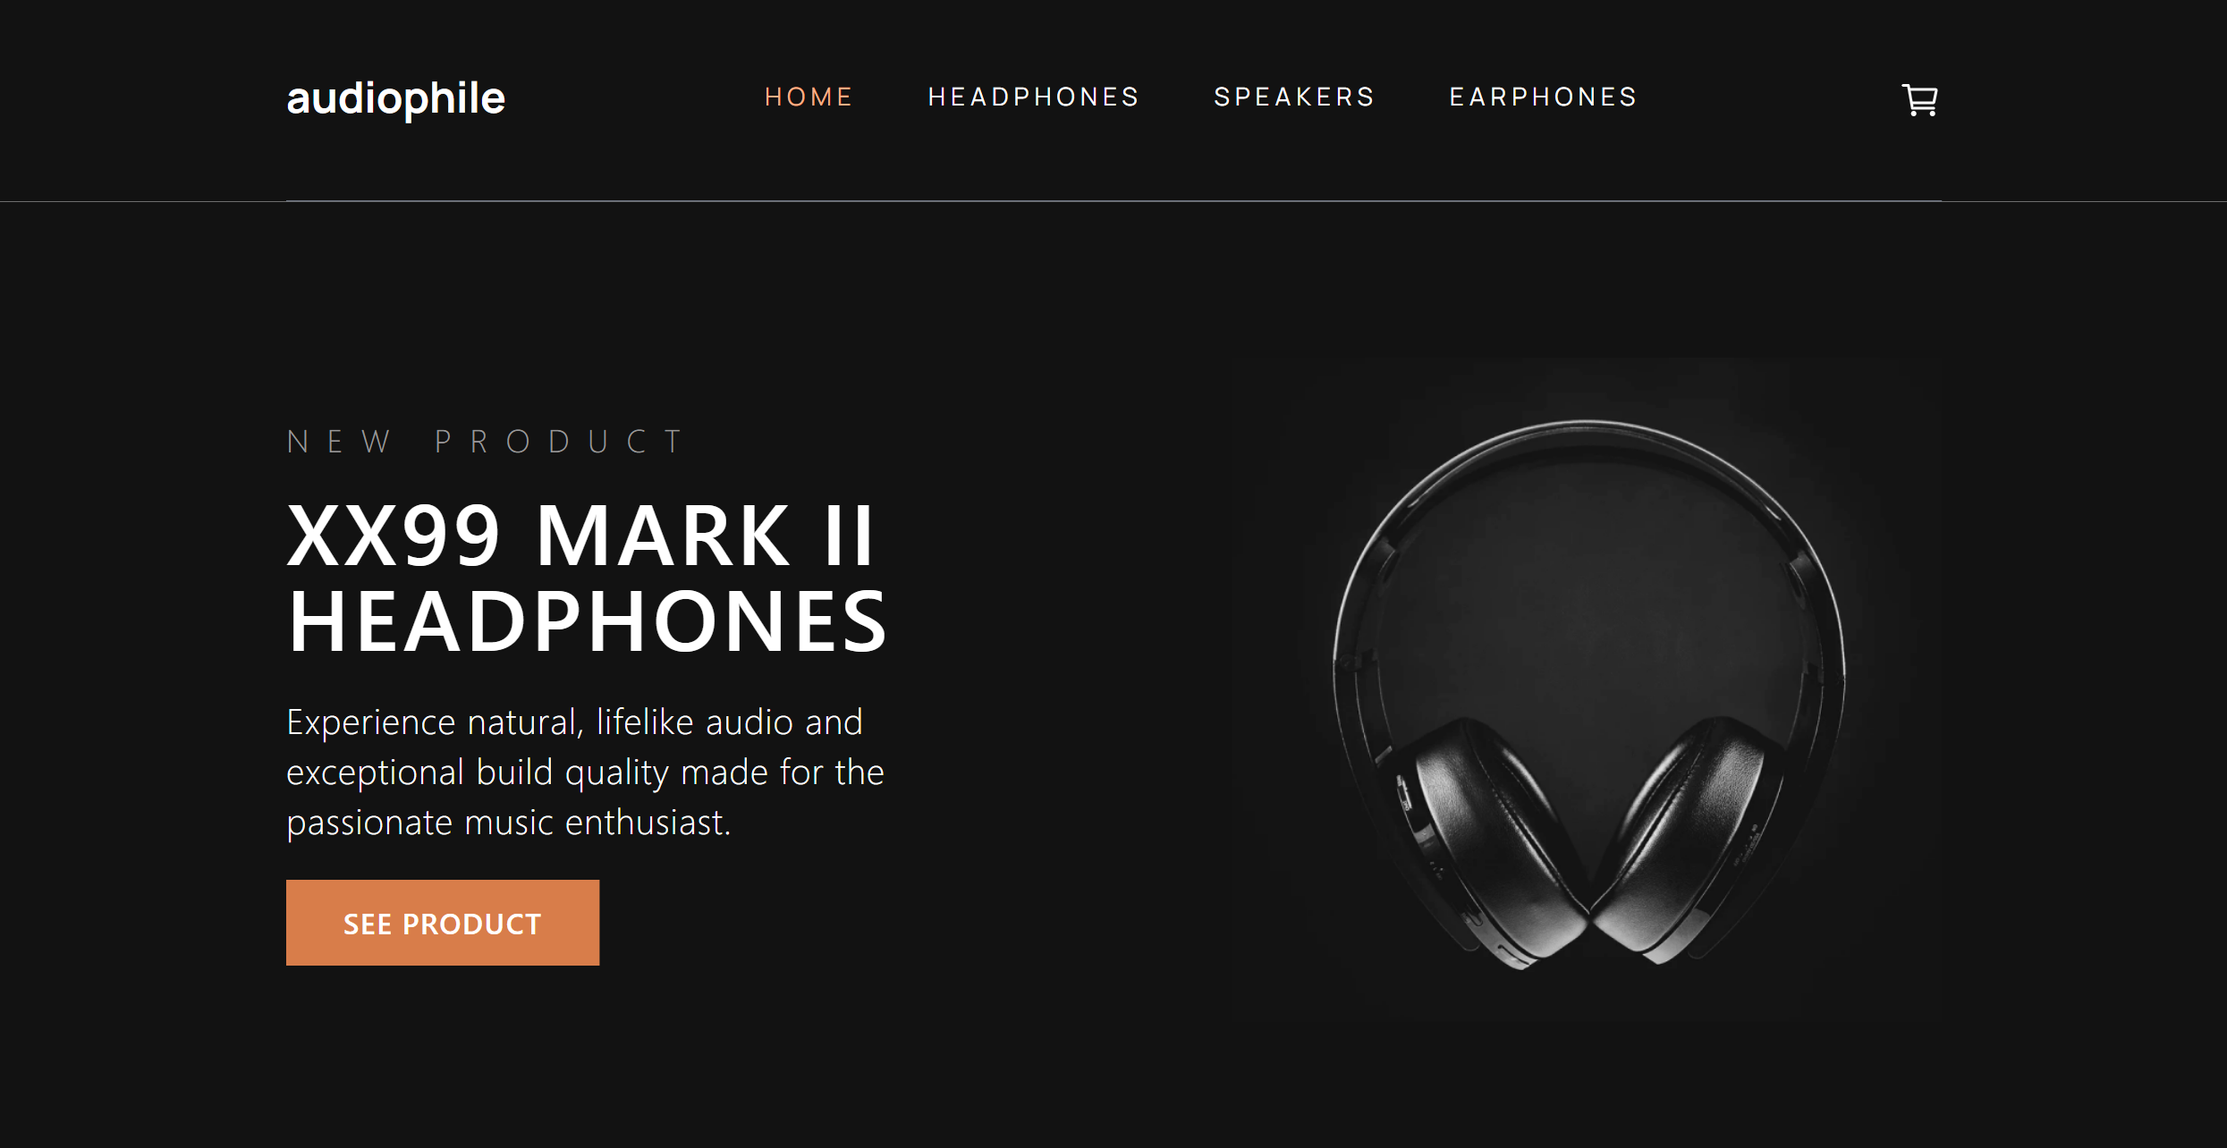
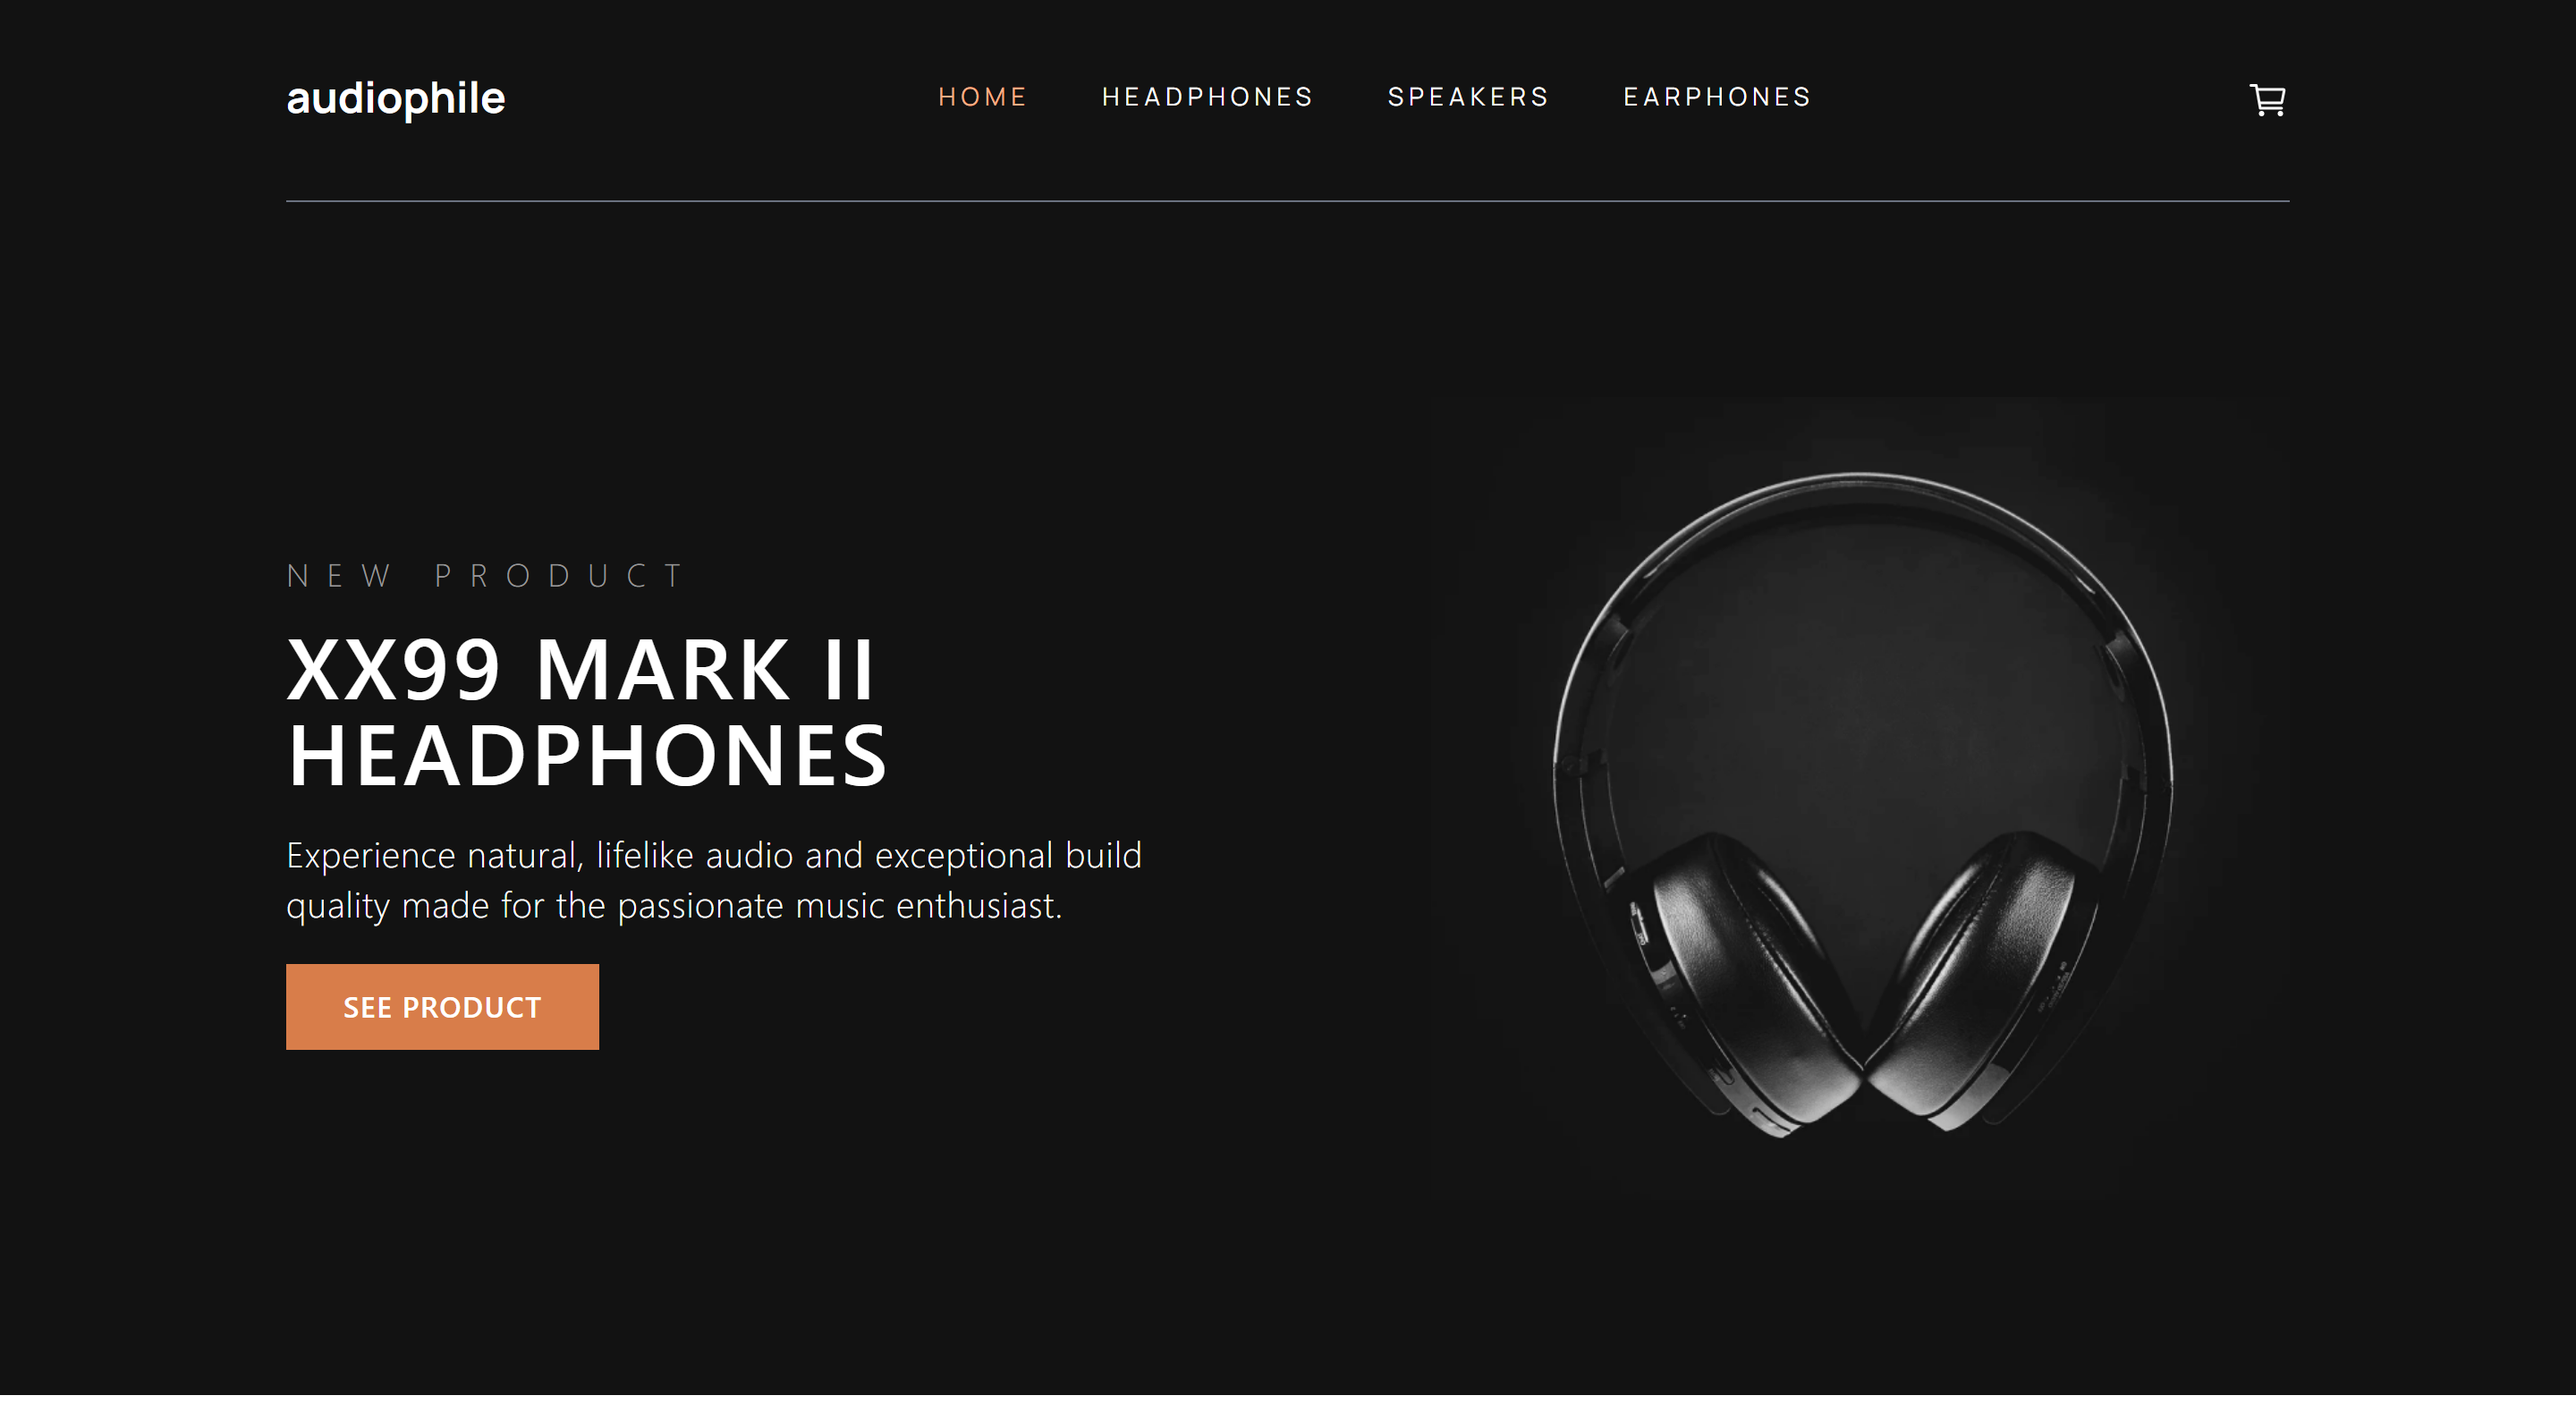
blog page fully made. Blog information now in json, backend not yet implemented
next: Admin dashboard

diff --git a/app/page.tsx b/app/page.tsx
@@ -5,30 +5,78 @@ import Skillsgrid from "@/components/Skillsgrid";
 import Projectsgrid from "@/components/Projectsgrid";
 import Experiencegrid from "@/components/Experiencegrid";
 import Footer from "@/components/Footer";
+import Blogcard from "@/components/Blogcard";
+import updatesData from "@/data/updates.json";
 
 export default function Home() {
   return (
     <div className="">
-      <main className="bg-black text-white min-h-screen">
+      <main className="bg-gray text-white min-h-screen">
           <Navbar/>
-            {/* Hero Section */}
-          <div className="px-4 lg:px-32 w-full">
 
+          <div className="px-4 lg:px-32 w-full">
+              {/* Hero Section */}
               <Herosection/>
 
+              <div className="flex flex-col">
+                  <div className="flex flex-col-reverse md:flex-row pb-28 border-b border-grey">
+                      {/* About Me */}
+                      <div className="w-full py-16 mx-auto flex flex-col justify-between">
+                          <div className="flex flex-col md:flex-row items-center mb-8">
+                              <h2 className="text-white text-4xl lg:text-48px md:text-6xl text-center">About Me</h2>
+                          </div>
+                          <h2 className="text-[18px] text-center md:text-start">
+                              I’m a soon-to-be graduate of African Leadership University, where I’ve honed my expertise
+                              in Software Engineering with a specialization in Full Stack Development as a Mastercard
+                              Scholar. My academic journey has equipped me with robust technical skills and a
+                              problem-solving mindset, but what excites me most is applying these tools to build
+                              solutions that drive tangible change. Beyond coding, I’m passionate about leveraging
+                              technology to bridge gaps—whether through scalable platforms, collaborative innovation, or
+                              empowering the next generation of African tech leaders. As I transition into the industry,
+                              I’m eager to contribute my skills to projects that merge creativity, functionality, and
+                              impact, while continuously growing as an engineer and thought leader.
+                          </h2>
+                          <div className="flex flex-col md:flex-row justify-between items-center mb-8">
+                              <button className="text-white text-24px border-b border-b-green pb-2 hover:text-green mt-4 md:mt-0">
+                                  <a
+                                      href="#contact">CONTACT
+                                      ME</a>
+                              </button>
+                          </div>
+
+                      </div>
+
+                      {/*Blog Overview*/}
+                      <div className="flex flex-col justify-center items-center pt-16 md:w-full">
+                          <div className="flex md:flex-rows gap-64 mb-8">
+                              <h2 className="text-white text-5xl lg:text-[48px] md:text-6xl text-start">News</h2>
+                              <button className="text-white text-18px
+                               border-b border-b-green pb-2 hover:text-green mt-4 md:mt-0"><a
+                                  href="/blog">View More
+                                </a>
+                              </button>
+                          </div>
+                          <div className="w-[50%]">
+                              {updatesData.slice(0, 1).map((update, index) => (
+                                  <Blogcard key={index} {...update} />
+                              ))}
+                          </div>
+                      </div>
+                  </div>
+              </div>
               {/* Skills Section */}
               <div className="py-16 mx-auto">
+                  <h2 className="text-white text-4xl lg:text-48px md:text-6xl text-center">Skills</h2>
                   <div className="flex flex-col md:flex-row justify-between items-center mb-8">
-                      <h2 className="text-white text-4xl lg:text-48px md:text-6xl text-center">Skills</h2>
+
                   </div>
                   <Skillsgrid/>
               </div>
 
-
               {/* Projects section   */}
               <div className="py-16 mx-auto">
+                  <h2 className="text-white text-4xl lg:text-48px md:text-6xl text-center">Projects</h2>
                   <div className="flex flex-col md:flex-row justify-between items-center mb-8">
-                      <h2 className="text-white text-4xl lg:text-48px md:text-6xl text-center">Projects</h2>
                       <button className="text-white border-b border-b-green pb-2 hover:text-green mt-4 md:mt-0"><a
                           href="#contact">CONTACT
                           ME</a>
@@ -37,11 +85,10 @@ export default function Home() {
                   <Projectsgrid/>
               </div>
 
-
               {/* Experience */}
               <div className="py-16 pb-24 mx-auto border-t border-grey">
+                  <h2 className="text-white text-4xl lg:text-48px md:text-6xl text-center">More</h2>
                   <div className="flex flex-col md:flex-row justify-between items-center mb-8">
-                      <h2 className="text-white text-4xl lg:text-88px md:text-6xl">More</h2>
                   </div>
                   <div className="flex justify-center mb-8">
                       <Experiencegrid/>

diff --git a/components/Blogcard.tsx b/components/Blogcard.tsx
@@ -7,28 +7,41 @@ import Link from 'next/link';
 
 
 type Blog = {
+    image: string;
     title?: string;
-    description1?: string;
+    caption?: string;
     likes?: number;
+    link?: string;
+
 }
 
 
-const Blogcard:React.FC<Blog> = ({ title, description1 , likes}) => {
+const Blogcard:React.FC<Blog> = ({image, title, caption , likes, link}) => {
     return (
-        <div className="w-fit flex-col space-y-6 container items-center border-b rounded-xl p-2">
-            <Image src={""} alt={"Erica"} width={250} height={200} className="bg-grey"/>
-            <h2 className="text-2xl">{title || "Title"}</h2>
-            <p className="text-xl">{description1 || "Lorem Ipsum"}</p>
+        <div className="w-fit flex-col space-y-6 container items-center border rounded-xl">
+            <Image src={image} alt={"Erica"} width="0"
+                   height="0"
+                   sizes="100vw" className="bg-grey w-full h-96 object-cover mb-4 rounded"/>
+            <div className="p-5">
+                <div>
+                    <h2 className="text-2xl pb-4">{title || "Title"}</h2>
+                    <p className="text-xl">{caption || "Lorem Ipsum"}</p>
+                </div>
 
-            <div className="flex justify-end gap-x-2 text-2xl items-center">
-                <GoHeart className="cursor-pointer"/> <p className="text-lg">{likes || 2 }</p>
-                <GoComment className="cursor-pointer"/>
-                <IoIosShareAlt className="cursor-pointer"/>
+                <div className="flex justify-end gap-x-2 text-2xl items-center py-8">
+                <GoHeart className="cursor-pointer"/> <p className="text-lg">{likes || 2}</p>
+                    <GoComment className="cursor-pointer"/>
+                    <IoIosShareAlt className="cursor-pointer"/>
+                </div>
+
+                <div className="flex justify-end">
+                    <Link href={link || "/blog"} target="_blank"
+                         >
+                        <button className="p-3 border bg-black text-white cursor-pointer rounded-2xl">View More</button>
+                    </Link>
+                </div>
             </div>
 
-            <div className="flex justify-end">
-                <Link href={"details"}></Link><button className="p-3 border bg-black text-white cursor-pointer rounded-2xl">View More</button>
-            </div>
         </div>
     )
 }

diff --git a/components/Projectcard.tsx b/components/Projectcard.tsx
@@ -11,22 +11,21 @@ type Project = {
 
 const ProjectCard: React.FC<Project> = ({ title, image, languages, live, code }) => {
     return (
-        <div className="relative group pt-2 pb-8">
+        <div className="relative group pt-2 pb-10">
             <div className="overflow-hidden">
-                <Image src={image} className="w-full transition-transform duration-300 " alt={title} width={100} height={100}/>
+                <Image src={image} className="w-full transition-transform duration-300 " alt={title} width={100} height={100} quality={100} unoptimized= {true}/>
                 <div
-                    className="absolute -top-0 inset-0 flex flex-col items-center justify-center bg-black bg-opacity-70 opacity-0 group-hover:opacity-100 transition-opacity duration-300">
+                    className="absolute -top-0 inset-0 flex flex-col items-center justify-center bg-black bg-opacity-70 opacity-0 group-hover:opacity-80 transition-opacity duration-300">
                     <a href={live} target="_blank" rel="noopener noreferrer"
-                       className="text-white pb-3 border-b-2 border-green hover:text-green">VIEW PROJECT</a>
+                       className="text-white text-18px pb-3 border-b-2 border-green hover:text-green">VIEW PROJECT</a>
                     <a href={code} target="_blank" rel="noopener noreferrer"
-                       className="text-white pb-3 border-b-2 border-green hover:text-green">VIEW CODE</a>
+                       className="text-white text-18px pb-3 border-b-2 border-green hover:text-green">VIEW CODE</a>
                 </div>
             </div>
             <h2 className="text-white text-24px mt-3">{title}</h2>
             <p className="text-grey text-18px font-light">{languages.join(", ")}</p>
 
-
-            <div className="flex lg:hidden space-x-10 pt-4">
+            <div className="flex md:hidden space-x-10 pt-4">
                 <a href={live} target="_blank" rel="noopener noreferrer"
                    className="text-white pb-3 border-b-2 border-green hover:text-green">VIEW PROJECT</a>
                 <a href={code} target="_blank" rel="noopener noreferrer"

diff --git a/app/blog/page.tsx b/app/blog/page.tsx
@@ -1,25 +1,9 @@
 import React from 'react';
 import Navbar from "@/components/Navbar";
 import Blogcard from "@/components/Blogcard";
+import updatesData from "@/data/updates.json";
+import Link from "next/link";
 
-const blogData = [
-    {
-        title: "Blog",
-        description: "Lorem Ipsum",
-        likes: 1,
-    },
-    {
-        title: "Blog",
-        description: "Lorem Ipsum",
-        likes: 1,
-    }
-    ,
-    {
-        title: "Blog",
-        description: "Lorem Ipsum",
-        likes: 1,
-    }
-]
 
 function Page() {
     return (
@@ -28,14 +12,16 @@ function Page() {
             <Navbar/>
             <div>
                 <div className="bg-gray flex flex-col justify-center items-center text-white min-h-96 gap-8 ">
-                    <h2 className="text-24px text-center">Keep up with Erica's newest updates</h2>
-                    <p className="text-18px underline cursor-pointer">View the newest</p>
+                    <h2 className="text-48px text-center">Keep up with Erica's newest updates</h2>
+                    <Link href={"/"}                    >
+                        <button className="p-3 text-xl text-white cursor-pointer underline">Go Back to Home</button>
+                    </Link>
 
                 </div>
-                <div className="flex flex-col md:flex-row justify-center items-center min-h-96 gap-8">
-                    {blogData.map((blog, index) => (
-                        <Blogcard  key={index} {... blog} />
-                    ))}
+                <div className="bg-white grid grid-cols-1 md:grid-cols-2 lg:grid-cols-3 gap-8 py-8 px-8">
+                    {updatesData.map((update, index) =>
+                        <Blogcard key={index} {... update}/>
+                    )}
 
                 </div>
             </div>

diff --git a/components/Herosection.tsx b/components/Herosection.tsx
@@ -5,7 +5,7 @@ import Image from "next/image";
 function Herosection() {
     return (
         <div
-            className="flex flex-col-reverse md:flex-row items-center -mt-2 pb-12 border-b border-grey border-t-none w-full">
+            className="flex flex-col-reverse md:flex-row items-center -mt-2 pb-12 border-b border-grey w-full min-h-screen">
             {/* Introduction */}
             <div
                 className="flex-row w-full lg:w-full justify-center md:justify-between text-center md:text-start space-y-8">
@@ -23,8 +23,10 @@ function Herosection() {
             </div>
             {/* Picture */}
             <div className="w-full md:w-1/2 flex justify-center md:justify-items-end lg:justify-center">
-                <Image src={'/assets/erica.png'} alt="erica" width={100} height={100}
-                     className="w-52 h-fit bg-darkGrey lg:w-96 md:w-96 mb-8 lg:pb-0"/>
+                <Image src={'/assets/erica.png'} alt="erica" width="0"
+                       height="0"
+                       sizes="100vw" quality={100} unoptimized= {true}
+                     className="w-96 h-auto bg-darkGrey lg:w-96 md:w-96 mb-8 lg:pb-0"/>
             </div>
         </div>
     );

diff --git a/components/Footer.tsx b/components/Footer.tsx
@@ -46,11 +46,11 @@ function Footer() {
     };
 
     return (
-        <div className="bg-darkGrey text-white m-0 px-4 lg:px-32" id="contact">
-            <div className="flex flex-col pt-8 mb-12 pb-8 border-b border-grey">
+        <div className="bg-black text-white m-0 px-4 lg:px-32" id="contact">
+            <div className="flex flex-col pt-8 mb-12 pb-8 ">
                 <div className="flex flex-col lg:flex-row lg:justify-between">
                     <div className="w-full lg:w-1/2 space-y-5">
-                        <h2 className="text-white text-4xl lg:text-88px">Contact</h2>
+                        <h2 className="text-white text-4xl lg:text-48px">Contact</h2>
                         <p className="text-grey text-18px">
                             I would love to hear about your project and how I could help. Please fill in the form, and I’ll get back to you as soon as possible.
                         </p>

diff --git a/components/Experiencegrid.tsx b/components/Experiencegrid.tsx
@@ -9,7 +9,7 @@ import Languagecard from "@/components/Languagecard";
 
 function Experiencegrid() {
     const [activeSection, setActiveSection] = useState("experience");    return (
-        <div className="py-16 pb-24 mx-auto border-t border-grey">
+        <div className="py-16 pb-24 mx-auto">
             {/*    Navigation between the different section in experience */}
             <div className="flex justify-center mb-8">
                 <div className="block md:hidden relative">

diff --git a/components/Projectsgrid.tsx b/components/Projectsgrid.tsx
@@ -4,7 +4,7 @@ import projectData from "@/data/projects.json";
 
 function Projectsgrid() {
     return (
-        <div className="grid grid-cols-1 md:grid-cols-2 lg:grid-cols-2 gap-8 py-8">
+        <div className="grid grid-cols-1 md:grid-cols-2 lg:grid-cols-2 gap-8 py-8 ">
             {projectData.map((project: any, index: any) => (
                 <Projectcard
                     key={index}
